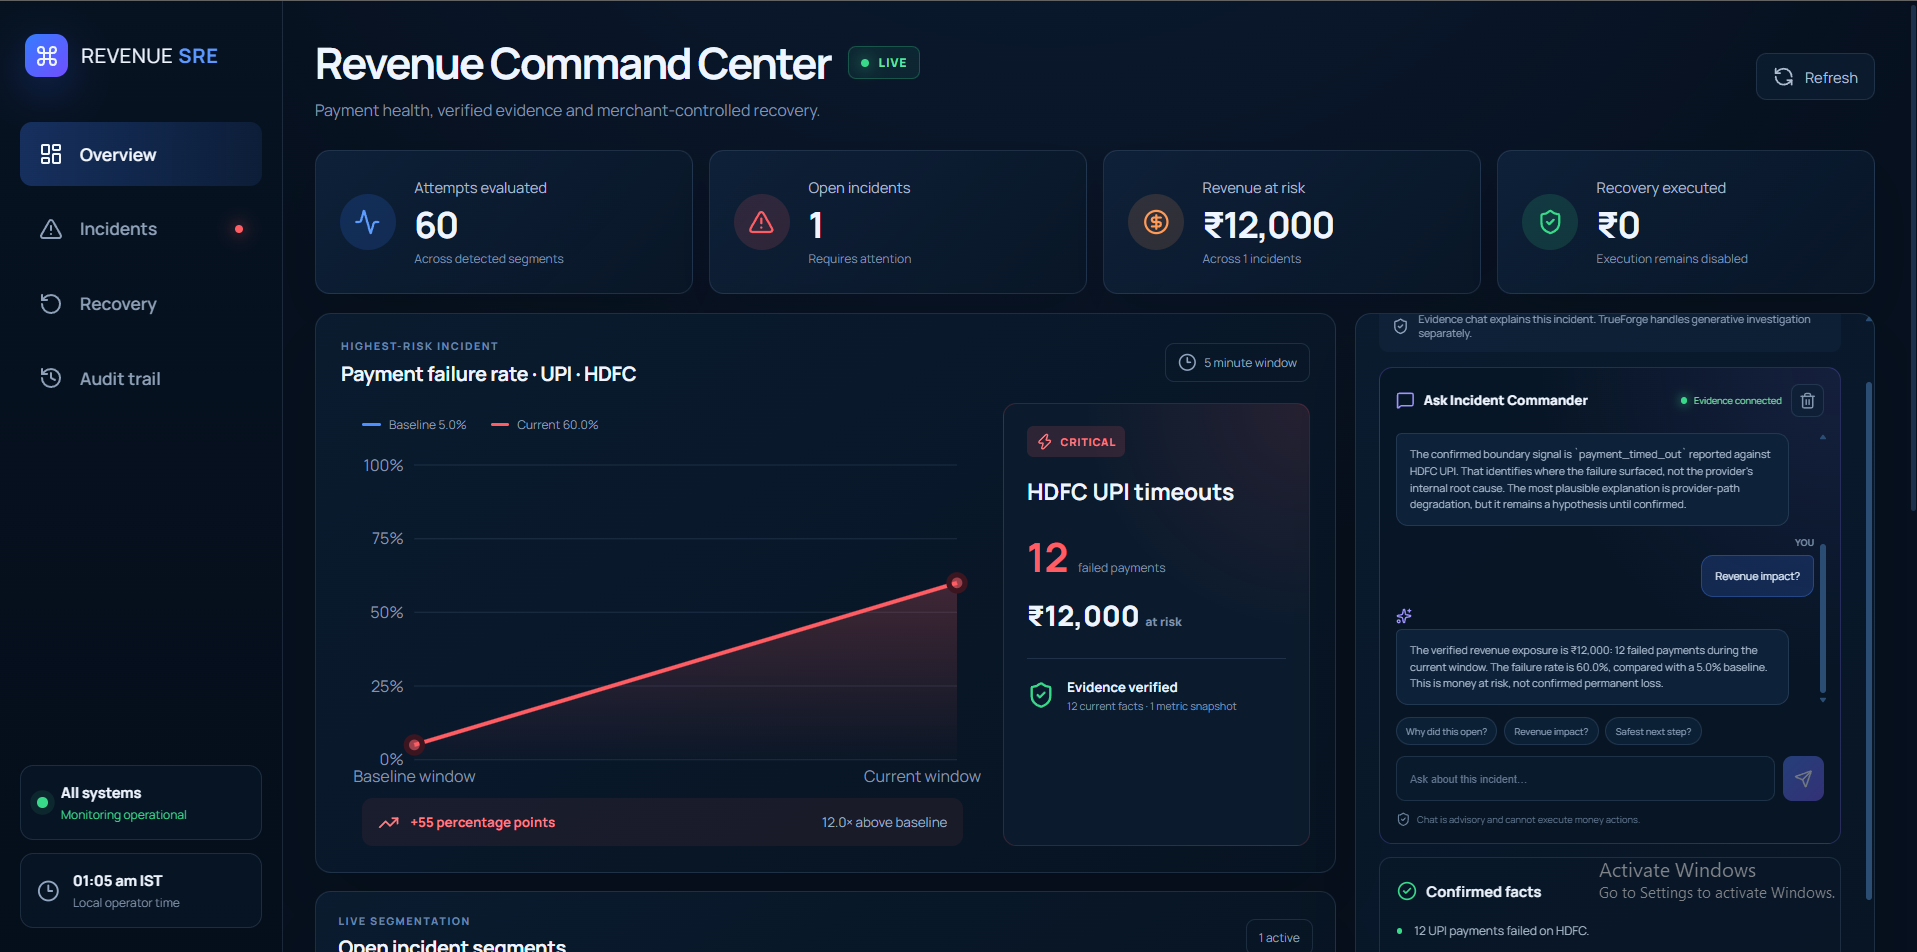
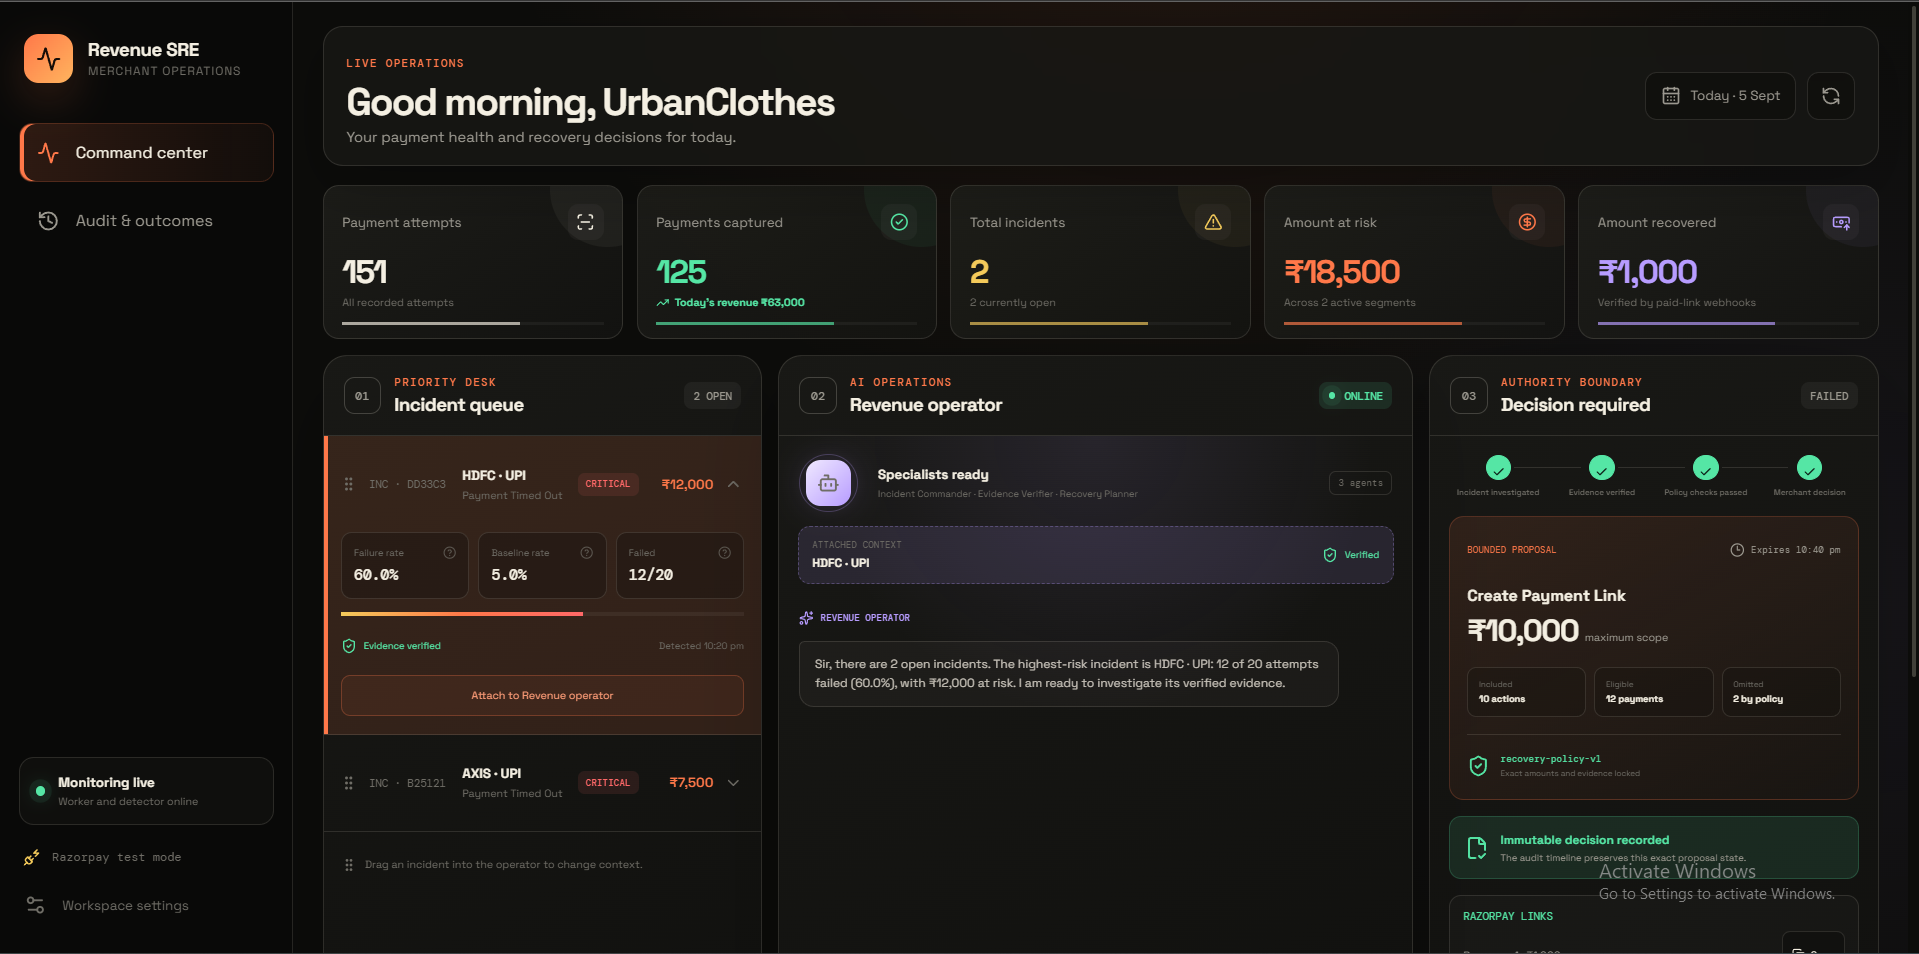
docs(readme): showcase the completed command center

diff --git a/README.md b/README.md
@@ -47,6 +47,10 @@ signed payment events
 - Recomputes incident metrics before allowing a recovery proposal.
 - Applies deterministic amount, action, expiry, cooldown, and contact limits.
 - Requires a separate merchant approval or rejection and records every decision.
+- Executes only approved, hash-bound recovery actions through a restricted
+  Razorpay test-mode Payment Link adapter.
+- Attributes signed `payment_link.paid` webhooks back to exact proposal actions
+  and reports verified recovered revenue.
 - Presents the complete flow in a responsive React command center.
 
 ## Architecture
@@ -88,6 +92,10 @@ directly perform a payment action.
    IDs and amounts and applies the policy engine before persistence.
 8. A merchant approves or rejects the immutable proposal through a separate API.
    The decision and proposal hash are retained in the audit timeline.
+9. The restricted executor rechecks authority, expiry, payment eligibility, and
+   plan integrity before creating Razorpay test-mode Payment Links.
+10. Signed outcome webhooks attribute paid links to their evidence-bound actions,
+    update remaining risk, and append the measured result to the audit timeline.
 
 ## Safety boundaries
 
@@ -103,12 +111,13 @@ directly perform a payment action.
 
 ### Deliberate MVP boundary
 
-The current MVP does **not** claim Razorpay payment-link execution, customer
-notification delivery, or recovered-revenue attribution. Daytona could not be
-configured during the event, so evidence verification uses an explicit
-deterministic MCP fallback and reports
-`native_trueforge_sandbox_used: false`. No fallback is presented as native
-sandbox execution.
+The current MVP executes only Razorpay **test-mode** Payment Link creation after
+explicit merchant approval. It does not deliver customer notifications; links
+are intended for an existing CRM, support, or messaging workflow. Customer
+contact data never enters agent context. Daytona could not be configured during
+the event, so evidence verification uses an explicit deterministic backend
+fallback and reports `native_trueforge_sandbox_used: false`. No fallback is
+presented as native sandbox execution.
 
 ## Technology
 
@@ -199,9 +208,9 @@ With the API and worker running:
 ```
 
 The loader submits 150 signed, PII-free Razorpay-format webhooks through the
-real ingestion endpoint. It includes healthy control traffic and one segment
-whose failure rate moves from 5% to 60%, producing a persistent incident with
-₹12,000 at risk.
+real ingestion endpoint. It produces two ranked UPI incidents—HDFC at 60% with
+₹12,000 at risk and AXIS at 50% with ₹7,500 at risk—while healthy ICICI card
+traffic remains below the incident thresholds.
 
 ## Verify the project
 
@@ -223,8 +232,9 @@ The saved TrueForge agent uses a self-hosted Qwen model through an
 OpenAI-compatible endpoint and connects to the Revenue SRE MCP server. The MCP
 tools let it list incidents, retrieve evidence, verify calculations, create a
 non-executing bounded proposal, read proposal status, and explain the audit
-timeline. The official Razorpay MCP is a separate connector for real test-mode
-provider investigation; synthetic demo payment IDs are never sent to it.
+timeline. After a separate merchant decision, the backend's restricted Razorpay
+MCP adapter may create test-mode Payment Links from the approved immutable plan;
+synthetic demo payment IDs are carried only as recovery references.
 
 See [the TrueForge workflow](docs/trueforge-mvp.md),
 [architecture](docs/architecture.md), [threat model](docs/threat-model.md), and
